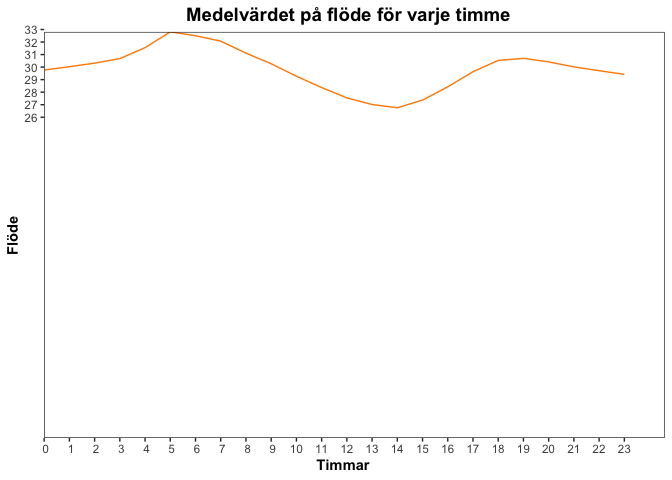
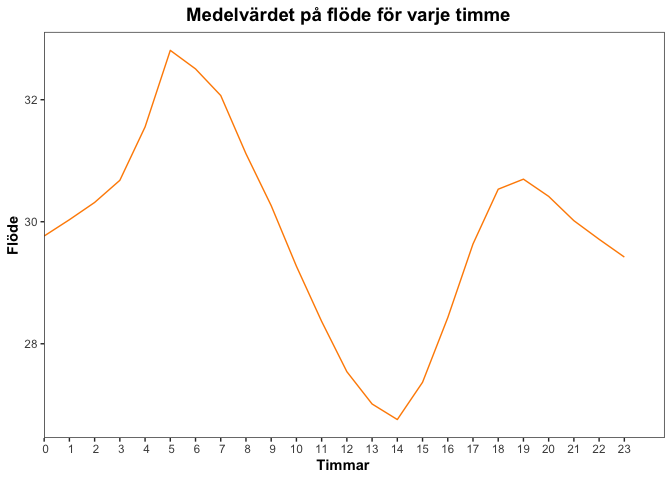
bild

diff --git a/Filip-Burlin---Lukas-Carlbring-C-Uppsats.md b/Filip-Burlin---Lukas-Carlbring-C-Uppsats.md
@@ -253,7 +253,7 @@ ggplot(medel.timme,aes(Group.1,x)) +
   theme_bw() + 
   labs(title = "Medelvärdet på flöde för varje timme", x="Timmar",y="Flöde") + 
   scale_x_discrete(limits = c(0:23)) + 
-  scale_y_discrete(limits = c(26:33)) +
+  #scale_y_discrete(limits = c(26:33)) +
   theme(axis.title.y = element_text(size = 11, face = "bold"),
         axis.title.x = element_text(size = 11, hjust = 0.48, face = "bold"),
         plot.title = element_text(hjust = 0.48, size = 14, face = "bold"),
